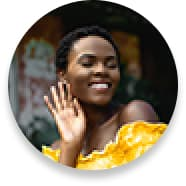
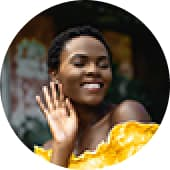
update position

diff --git a/src/partials/customer-reviews.html b/src/partials/customer-reviews.html
@@ -2,19 +2,19 @@
 <section>
           <h2 class="vissually-hidden">customer reviews</h2>
 
-  <div class="container">
+  <div class="container container-swiper">
     <div class="swiper mySwiper">
       <div class="swiper-wrapper">
     
         <div class="swiper-slide customer-item">
     
           <picture>
-            <source media="(max-width: 1280px)"
+            <source 
               srcset="./images/review/review1.jpg 1x, ./images/review/review1@2x.jpg 2x" />
-            <img class="customer-icon" src="#" alt="girl in glasses">
+            <img class="customer-item__icon" src="#" alt="girl in glasses">
           </picture>
           <div class="text-decoration">
-                <svg class="quotes" width="54" height="40" color="#E1E1E1">
+                 <svg class="quotes" width="54" height="40" color="#E1E1E1">
                   <use href="./images/review/quotes.svg#icon-quotes-right"></use>
                 </svg>
                 <div class="text-underline">
@@ -24,34 +24,34 @@
                 </div>
           </div>
           <span class="dots">...</span>
-          <p class="reviewer-info">Emily, Los Angeles</p>
+          <p class="customer-item__info">Emily, Los Angeles</p>
     
         </div>
         <div class="swiper-slide customer-item">
     
           <picture>
-            <source media="(max-width:1280px)" srcset="./images/review/review2.jpg 1x,./images/review/review1@2x.jpg 2x" />
-            <img class="customer-icon" src="#" alt="girl whith curly hear">
+            <source srcset="./images/review/review2.jpg 1x,./images/review/review1@2x.jpg 2x" />
+            <img class="customer-item__icon" src="#" alt="girl whith curly hear">
           </picture>
           <div class="text-decoration">
                 <svg class="quotes" width="54" height="40" color="#E1E1E1">
                   <use href="./images/review/quotes.svg#icon-quotes-right"></use>
                 </svg>
                 <div class="text-underline">
-                  <p class="customer-item__text">Nullam viverra consectetuer. Quisque cursus et, porttitor risus. Aliquam sem. In
+                  <div class="customer-item__text">Nullam viverra consectetuer. Quisque cursus et, porttitor risus. Aliquam sem. In
                     hendrerit
-                    nulla quam nunc, accumsan congue. Lorem ipsum primis in nibh vel risus.</p>
+                    nulla quam nunc, accumsan congue. Lorem ipsum primis in nibh vel risus.</div>
                 </div>
           </div>
           <span class="dots">...</span>
-          <p class="reviewer-info"> Jennifer, California</p>
+          <p class="customer-item__info"> Jennifer, California</p>
     
         </div>
         <div class="swiper-slide customer-item">
     
           <picture>
-            <source media="(max-width:1280px)" srcset="./images/review/review3.jpg 1x,./images/review/review1@2x.jpg 2x" />
-            <img class="customer-icon" src="#" alt="girl in yellow dress">
+            <source  srcset="./images/review/review3.jpg 1x,./images/review/review1@2x.jpg 2x" />
+            <img class="customer-item__icon" src="#" alt="girl in yellow dress">
           </picture>
           <div class="text-decoration">
             <svg class="quotes" width="54" height="40" color="#E1E1E1">
@@ -64,7 +64,7 @@
             </div>
           </div>
           <span class="dots">...</span>
-          <p class="reviewer-info"> Sabrina, Masachusets</p>
+          <p class="customer-item__info"> Sabrina, Masachusets</p>
             </div>
     
       </div>

diff --git a/src/sass/layout/_customer-reviews.scss b/src/sass/layout/_customer-reviews.scss
@@ -1,19 +1,45 @@
-/*.section__title {
-
-
-}*/
 .customer-item {
   display: flex;
   flex-direction: column;
-  color: black;
 }
-/*.customer-icon {
-  
-}*/
+
+%review-text {
+  font-weight: 500;
+  color: black;
+  font-family: 'DM Sans';
+  text-align: center;
+  letter-spacing: 0.04em;
+}
+
+.customer-item__icon {
+  width: 85px;
+  height: 85px;
+  margin-bottom: 29px;
+
+  @media screen and (min-width: 768px) {
+    width: 85px;
+    height: 85px;
+    margin-bottom: 19px;
+  }
+  @media screen and (min-width: 1200px) {
+    width: 85px;
+    height: 85px;
+    margin-bottom: 15px;
+  }
+}
 .dots {
   color: #c7133e;
-
   font-size: 40px;
+  margin-top: 30px;
+  margin-bottom: 18px;
+  @media screen and (min-width: 768px) {
+    margin-top: 24px;
+    margin-bottom: 14px;
+  }
+  @media screen and (min-width: 1200px) {
+    margin-top: 15px;
+    margin-bottom: 15px;
+  }
 }
 .quotes {
   fill: currentColor;
@@ -25,25 +51,46 @@
 .text-decoration {
   background: #fafafa;
   z-index: 1;
-  padding: 35px 56px;
+  width: 100%;
 }
 .text-underline {
-  background: repeating-linear-gradient(#bbb 1px, transparent 2px, transparent 31px);
+  background: repeating-linear-gradient(#bbb 1px, transparent 3px, transparent 31px);
   z-index: 2;
+  width: 100%;
 }
 .customer-item__text {
-  color: black;
-  font-family: 'DM Sans';
-  font-style: normal;
-  font-weight: 500;
+  @extend%review-text;
   font-size: 12px;
-  line-height: 31px;
-  text-align: center;
+  line-height: 2.55em;
   display: block;
-  @media screen {
+  width: 100%;
+
+  @media screen and (min-width: 768px) {
+    font-size: 14px;
+    line-height: 2.16em;
+
+    /*width: 460px;*/
+  }
+  @media screen and (min-width: 1200px) {
+    font-size: 16px;
+    line-height: 1.86em;
+
+    /*width: 750px;*/
   }
 }
-
+.customer-item__info {
+  @extend%review-text;
+  font-size: 14px;
+  line-height: 1.86em;
+  margin-bottom: 30px;
+  @media screen and (min-width: 768px) {
+    margin-bottom: 35px;
+    font-size: 16px;
+  }
+  @media screen and (min-width: 1200px) {
+    font-size: 20px;
+  }
+}
 .swiper-pagination {
   position: relative;
   color: #d9d9d9;
@@ -54,8 +101,8 @@
 }
 
 .swiper-slide {
-  text-align: center;
-  font-size: 18px;
+  /*text-align: center;
+  font-size: 18px;*/
 
   /* Center slide text vertically */
   display: -webkit-box;
@@ -74,8 +121,8 @@
 
 .swiper-slide img {
   display: block;
-  width: 100%;
-  height: 100%;
+  /*width: 100%;
+  height: 100%;*/
   object-fit: cover;
 }
 
